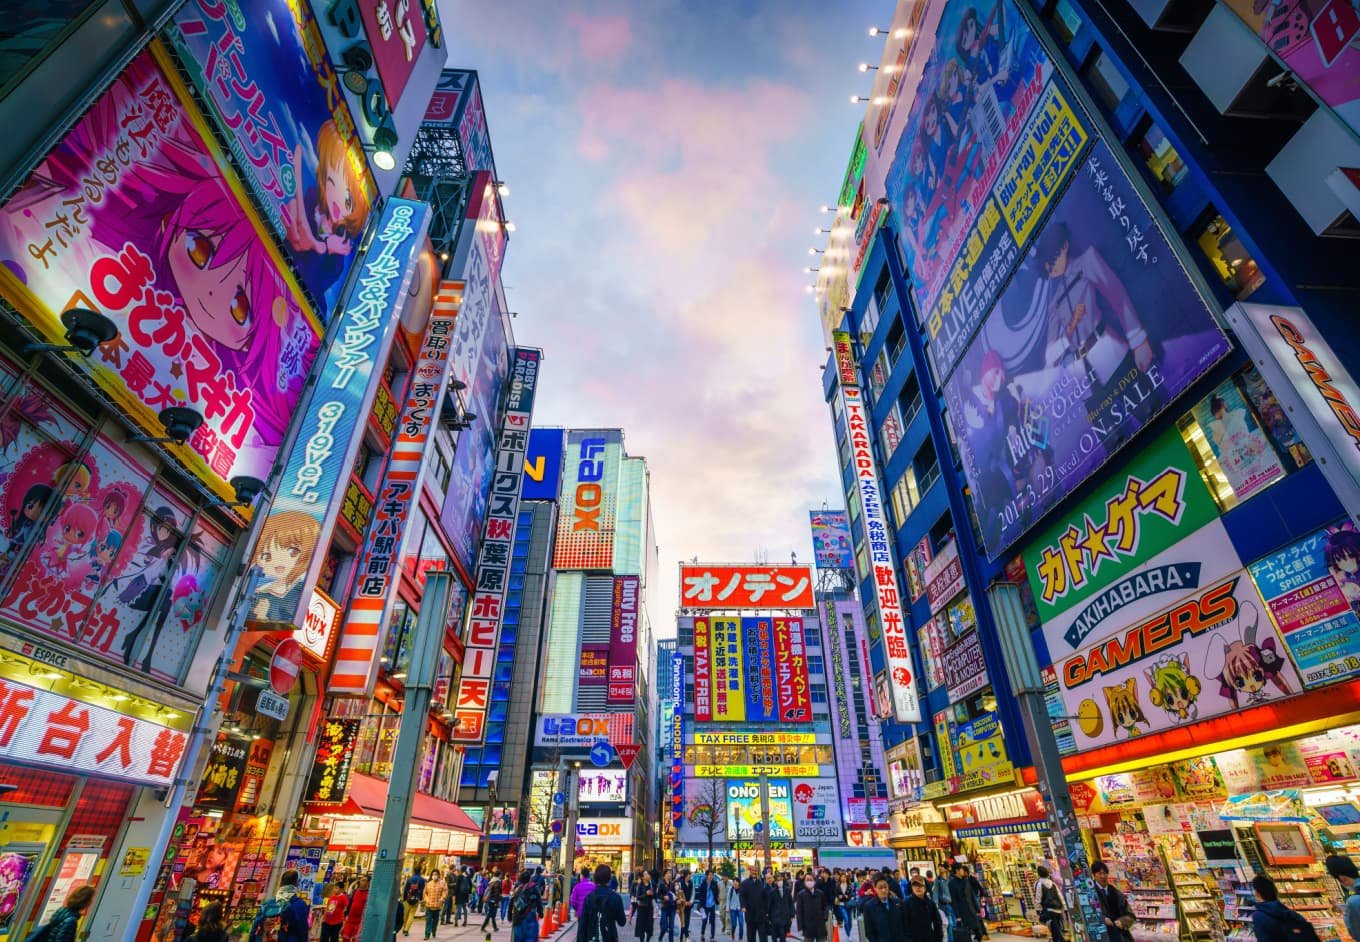
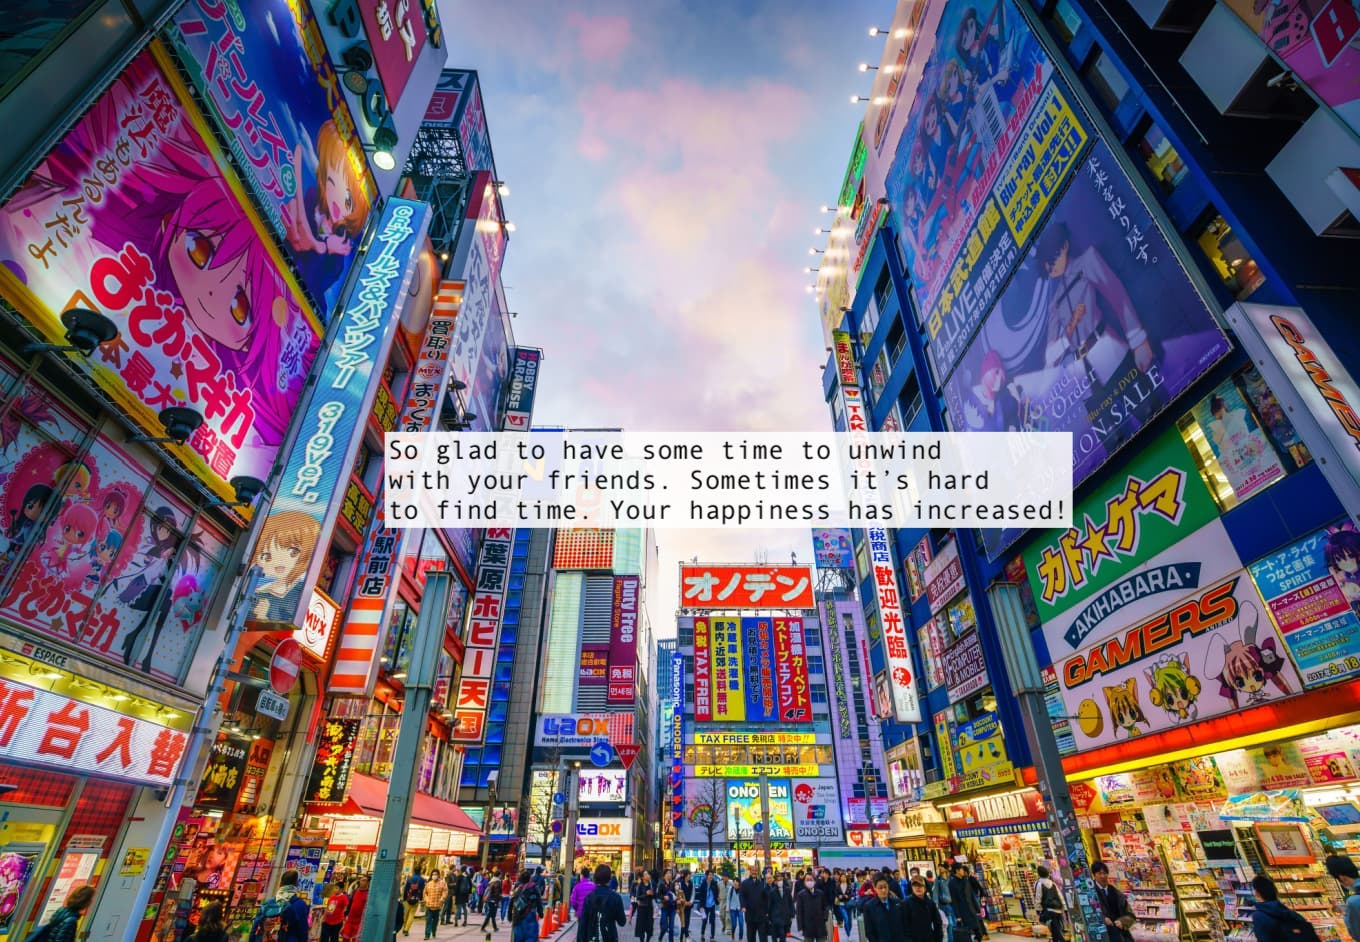
Modify photos to include text and character

Changed region(s): [[0.2779, 0.431, 0.8029, 0.5849]]

diff --git a/src/main/java/ca/bcit/comp2522/termproje/game/Player.java b/src/main/java/ca/bcit/comp2522/termproje/game/Player.java
@@ -30,7 +30,6 @@ public class Player {
         money = 10;
         hunger = 10;
         days = 1;
-        items = new ArrayList<>();
     }
     /**
      * Gets the players current happiness.
@@ -115,20 +114,6 @@ public class Player {
      */
     public void setDays(int days) {
         this.days = days;
-    }
-    /**
-     * Gets the players current item list.
-     * @return an Arraylist of the players current items
-     */
-    public ArrayList getItems() {
-        return items;
-    }
-    /**
-     * Sets the player's item list
-     * @param items arraylist of items
-     */
-    public void setItems(ArrayList items) {
-        this.items = items;
     }
 
     /**
